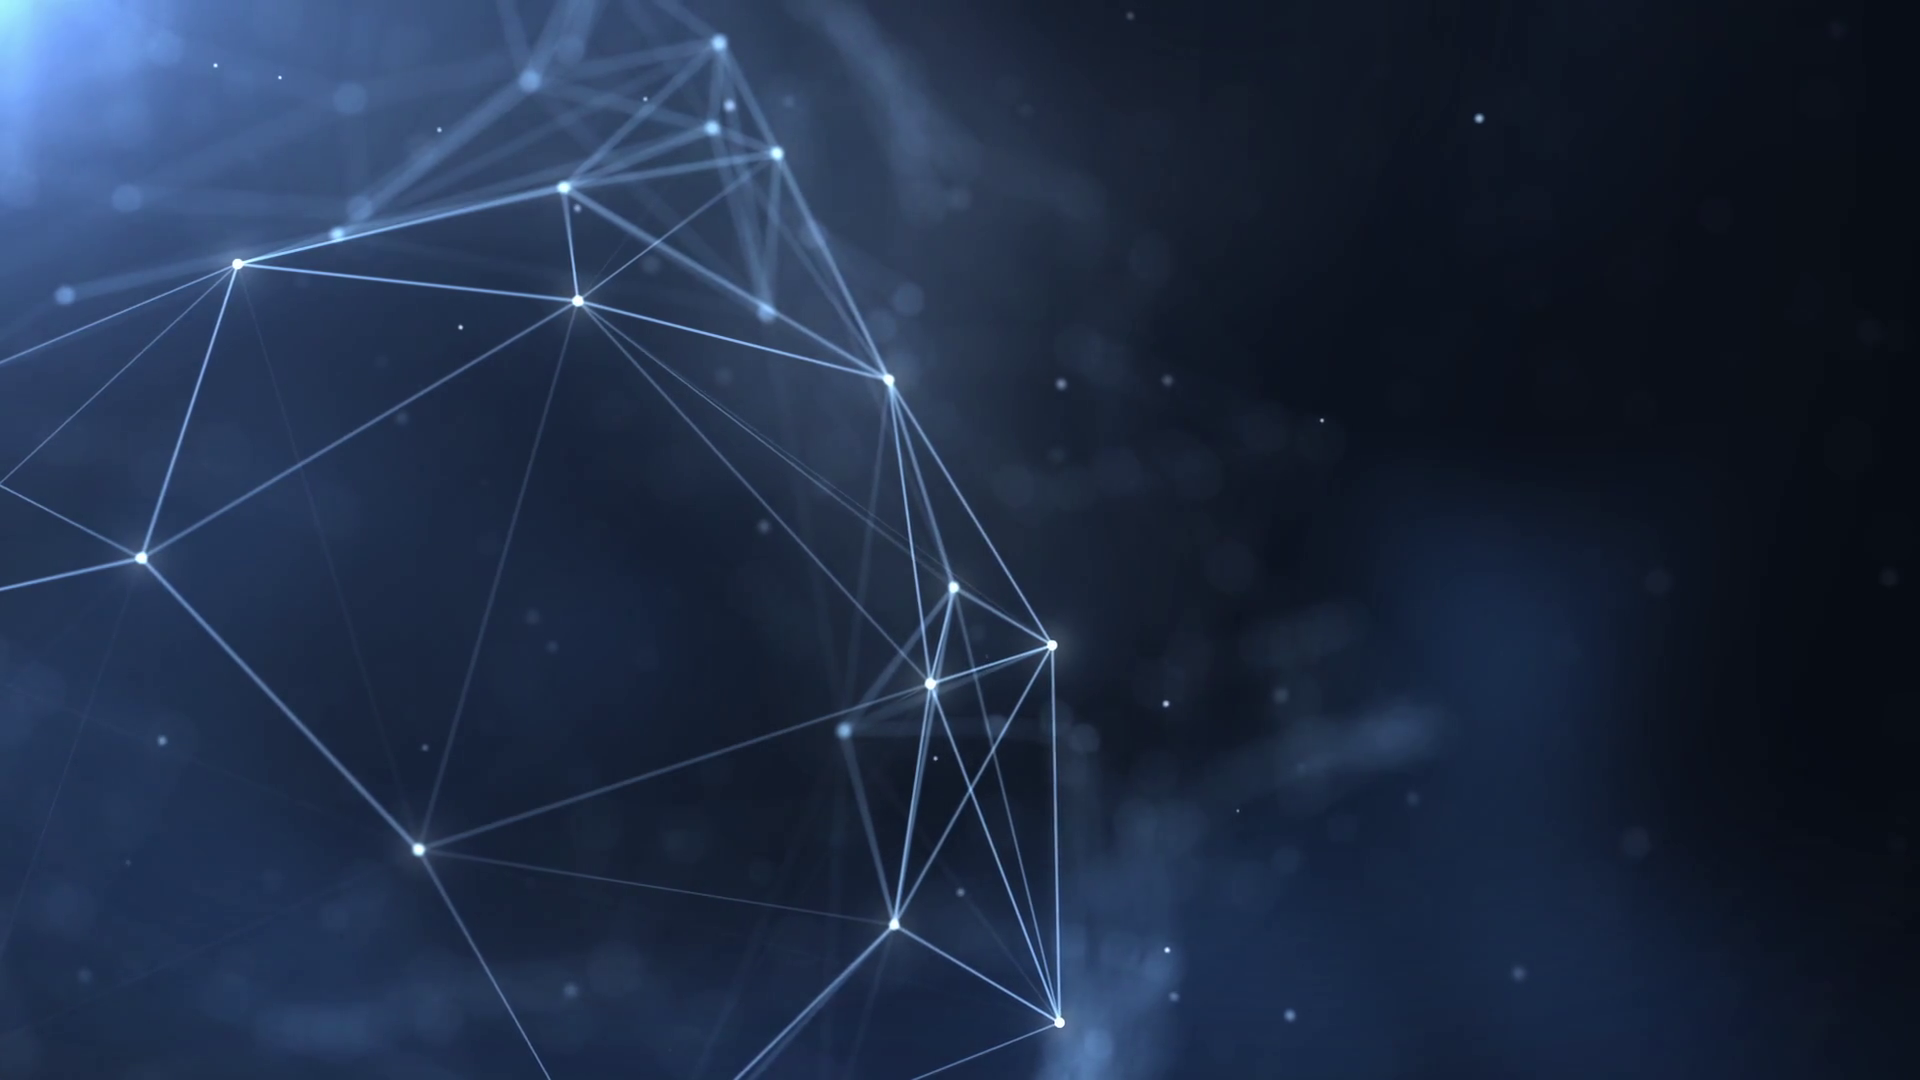
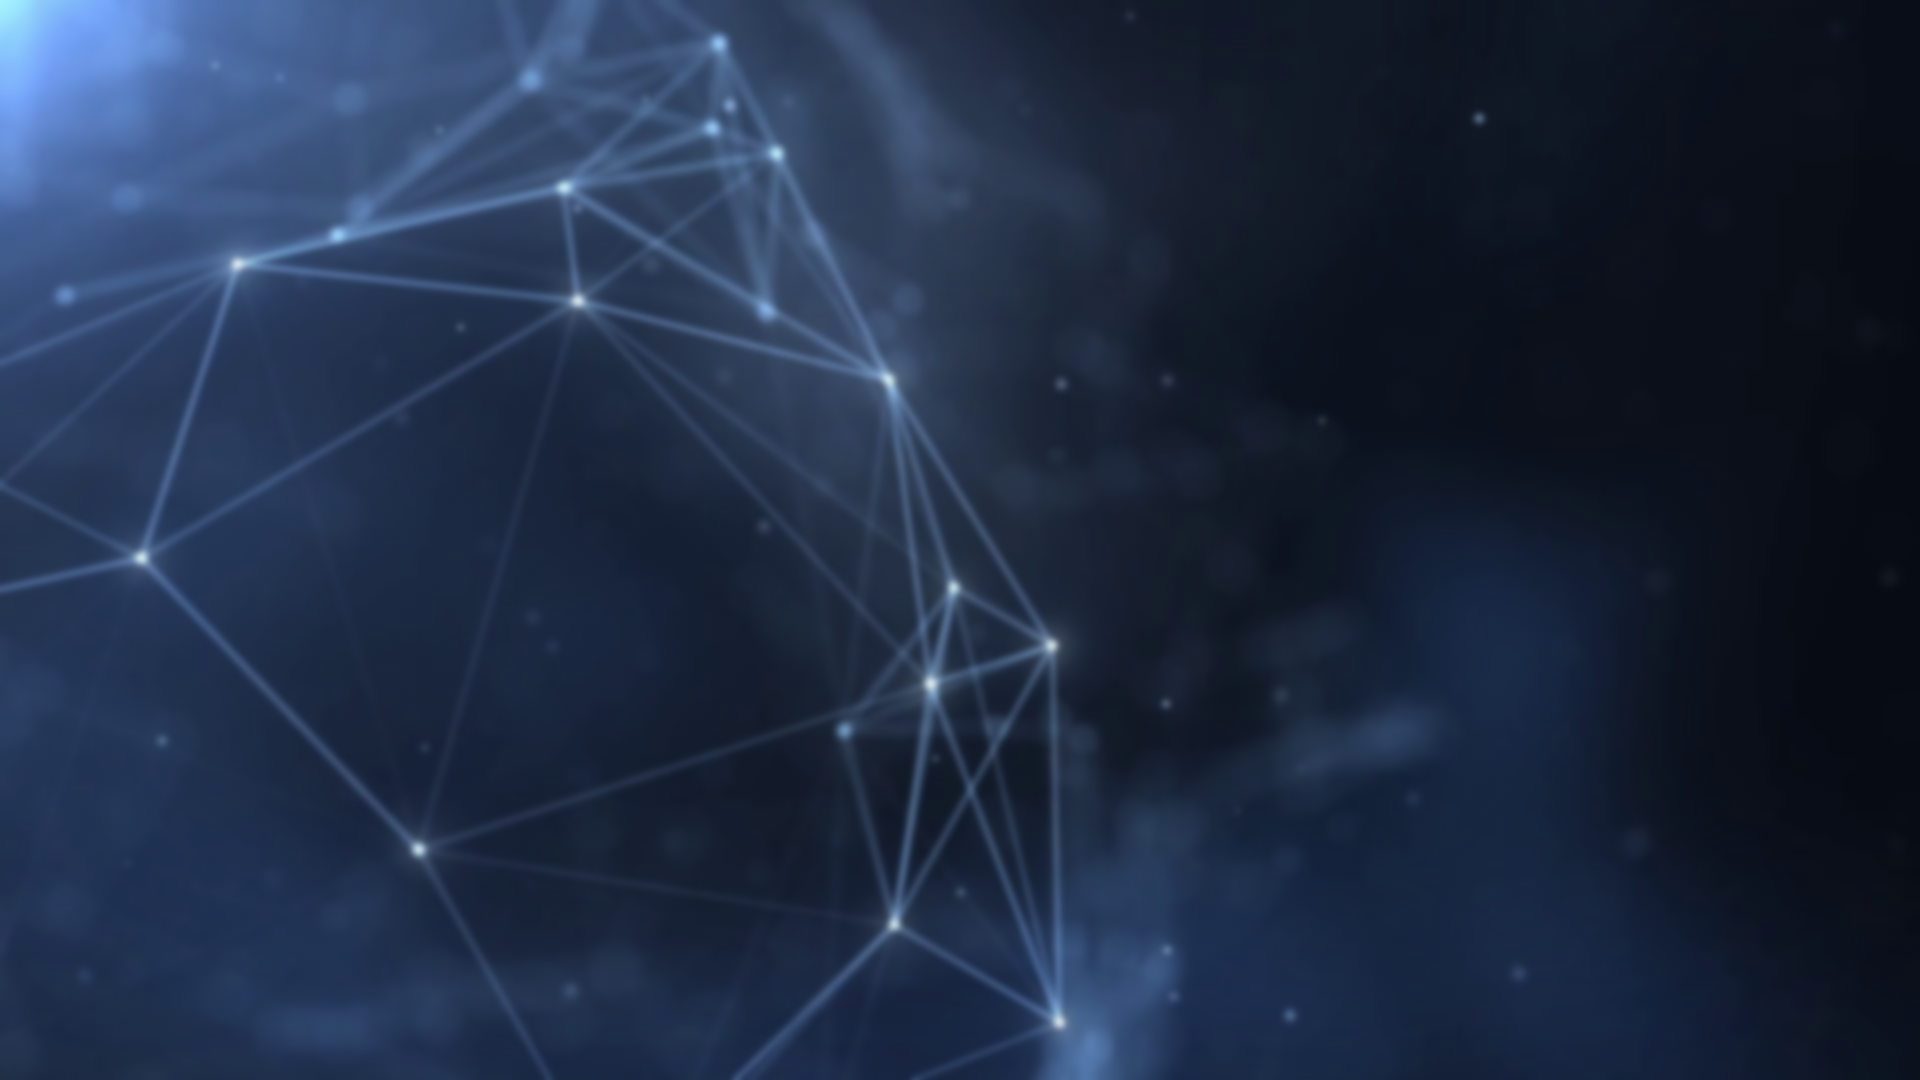
Improve design

diff --git a/src/Components/Signup/style.css b/src/Components/Signup/style.css
@@ -4,32 +4,11 @@
     display: flex;
     justify-content: center;
     align-items: center;
-}
-
-.signup:before, .login:before {
-    content: "";
-    position: fixed;
-    left: 0;
-    right: 0;
-    z-index: -1;
-  
-    display: block;
     background-image: url('../../images/background2.png');
     background-position: fixed;
     background-repeat: no-repeat;
     background-size:cover;
-    width: 100%;
-    height: 100%;
-  
-    -webkit-filter: blur(3px);
-    -moz-filter: blur(3px);
-    -o-filter: blur(3px);
-    -ms-filter: blur(3px);
-    filter: blur(3px);
-}
-
-@media only screen and (max-width: 767px) {
-    background-attachment: scroll;
+    background-attachment: fixed;
 }
 
 @media only screen and (max-width: 767px) {

diff --git a/src/Components/Login/style.css b/src/Components/Login/style.css
@@ -3,6 +3,10 @@
     height: 100vh;
     justify-content: center;
     align-items: center;
+    background-image: url('../../images/background2.png');
+    background-position: fixed;
+    background-repeat: no-repeat;
+    background-size:cover;
 }
 
 .login_form {
